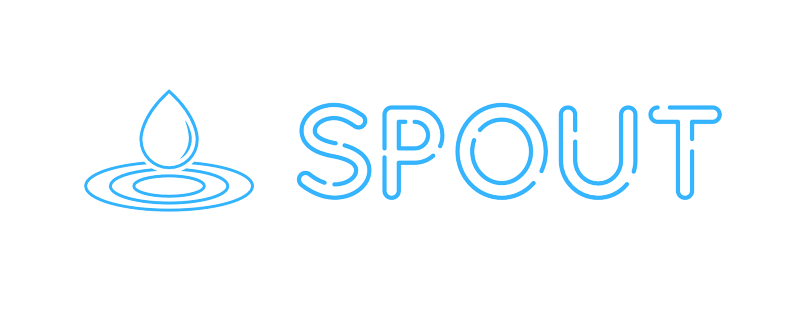
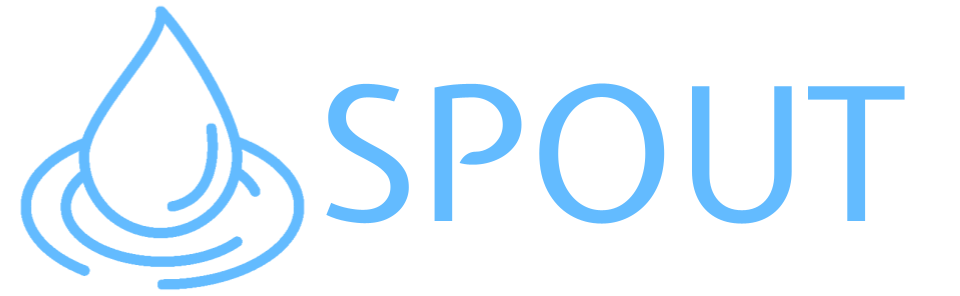
Create new card component in dashboard

Changed region(s): [[0.0, 0.0, 0.9592, 1.0]]

diff --git a/app/src/routes/Header.svelte b/app/src/routes/Header.svelte
@@ -1,47 +1,39 @@
 <script>
 	import { page } from '$app/stores';
-	import logo from '$lib/images/Spout.png';
+	import logo from '$lib/images/spout.png';
 </script>
 
-<header class="flex justify-between items-center px-12 h-24 sticky">
-	<div class="flex w-96">
+<header class="flex justify-between items-center h-24 sticky w-10/12">
+	<div class="flex w-60 justify-center items-center">
 		<a href="/">
-			<img src={logo} alt="SvelteKit" />
+			<img src={logo} alt="Spout" />
 		</a>
 	</div>
 
-	<nav class="flex items-center justify-between md:order-none text-xl flex-1 px-10 ">
-		<!-- <svg viewBox="0 0 2 3" aria-hidden="true">
-			<path d="M0,0 L1,2 C1.5,3 1.5,3 2,3 L2,0 Z" />
-		</svg> -->
+	<nav class="flex items-center justify-center md:order-none text-xl flex-1 ">
 		<ul>
 			<li aria-current={$page.url.pathname === '/' ? 'page' : undefined}>
 				<a href="/">My Home</a>
 			</li>
 			<li aria-current={$page.url.pathname === '/about' ? 'page' : undefined}>
-				<a href="/about">Connect</a>
+				<a href="/about">About</a>
 			</li>
 			<li aria-current={$page.url.pathname === '/sverdle' ? 'page' : undefined}>
 				<a href="/sverdle">Support</a>
 			</li>
 		</ul>
-		<!-- <svg viewBox="0 0 2 3" aria-hidden="true">
-			<path d="M0,0 L0,3 C0.5,3 0.5,3 1,2 L2,0 Z" />
-		</svg> -->
 	</nav>
-	<a href="/login" class="bg-blue-400 h-12 w-36 rounded-md text-white flex justify-center items-center">
-		Login
-	</a>
+	<div class="w-72 flex justify-end items-center ">
+		<a href="/login" class="bg-primary h-12 w-36 rounded-md flex justify-center items-center text-white">
+			Login
+		</a>
+	</div>
+
 </header>
 
 
 <style>
 
-	svg {
-		width: 2em;
-		height: 3em;
-		display: block;
-	}
 
 	ul {
 		position: relative;

diff --git a/app/src/routes/styles.css b/app/src/routes/styles.css
@@ -5,11 +5,11 @@
 		Cantarell, 'Open Sans', 'Helvetica Neue', sans-serif;
 	--font-mono: 'Fira Mono', monospace;
 	--color-bg-0: rgb(223, 229, 235);
-	--color-bg-1: hsl(209, 36%, 86%);
+	--color-bg-1: rgb(252, 252, 252);
 	--color-bg-2: hsl(224, 44%, 95%);
-	--color-theme-1: rgb(96 165 250);
+	--color-theme-1: #60a5fa;
 	--color-theme-2: #4075a6;
-	--color-text: rgba(0, 0, 0, 0.7);
+	--color-text: #343F3E;
 	--column-width: 42rem;
 	--column-margin-top: 4rem;
 	font-family: var(--font-body);
@@ -21,13 +21,6 @@ body {
 	margin: 0;
 	background-attachment: fixed;
 	background-color: var(--color-bg-1);
-	background-size: 100vw 100vh;
-	background-image: radial-gradient(
-			50% 50% at 50% 50%,
-			rgba(255, 255, 255, 0.75) 0%,
-			rgba(255, 255, 255, 0) 100%
-		),
-		linear-gradient(180deg, var(--color-bg-0) 0%, var(--color-bg-1) 15%, var(--color-bg-2) 50%);
 }
 
 h1,

diff --git a/app/src/routes/components/Dashboard.svelte b/app/src/routes/components/Dashboard.svelte
@@ -1,0 +1,36 @@
+<script>
+  import { onMount } from 'svelte';
+  import Card from './Card.svelte';
+  import Form from './form.svelte';
+  
+  let cards = [];
+
+  function addCard() {
+    let card = {
+      name: null,
+      seed: null,
+      period: null,
+      set: false
+    }
+    cards = [...cards, card]; // Add a new card to the array
+  }
+
+  // Execute some logic after the component is mounted
+  onMount(() => {
+    // You can perform any initial setup here
+  });
+</script>
+
+
+<div class="flex flex-col justify-center items-center flex-1 w-full rounded-lg mt-6">
+  {#each cards as card}
+    {#if card.set == false}
+      <Form />
+    {:else}
+      <Card />
+    {/if}
+  {/each}
+  <button class="border-2 border-primary rounded-full w-16 h-16 text-2xl text-primary" on:click={addCard}>
+    +
+  </button>
+</div>

diff --git a/app/src/routes/+page.svelte b/app/src/routes/+page.svelte
@@ -1,6 +1,5 @@
 <script>
-	import Counter from './Counter.svelte';
-
+	import Dashboard from './components/Dashboard.svelte';
 </script>
 
 <svelte:head>
@@ -8,14 +7,13 @@
 	<meta name="description" content="Svelte demo app" />
 </svelte:head>
 
-<section>
-	<div>
-		<h1>Dashboard</h1>
-		<button class="bg-green-600 h-12 w-36 rounded-md text-white flex justify-center items-center">Outdoor</button>
+<section class="flex-1 p-4">
+	<div class="self-start flex flex-col items-start gap-3">
+		<h1 class="text-3xl">Dashboard</h1>
 	</div>
-
-	<Counter />
+	<Dashboard />
 </section>
+  
 
 <style>
 	section {
@@ -23,9 +21,5 @@
 		flex-direction: column;
 		justify-content: center;
 		align-items: center;
-	}
-
-	h1 {
-		width: 100%;
 	}
 </style>

diff --git a/app/src/routes/components/form.svelte b/app/src/routes/components/form.svelte
@@ -1,0 +1,25 @@
+<script>
+    let name = '';
+    let seedType = '';
+    let period = '';
+  
+    function handleSubmit() {
+      console.log('Name:', name);
+      console.log('Seed Type:', seedType);
+      console.log('Period:', period);
+    }
+  </script>
+  
+  <form on:submit|preventDefault={handleSubmit}>
+    <label for="name">Name:</label>
+    <input type="text" id="name" bind:value={name} />
+  
+    <label for="seedType">Seed Type:</label>
+    <input type="text" id="seedType" bind:value={seedType} />
+  
+    <label for="period">Period:</label>
+    <input type="text" id="period" bind:value={period} />
+  
+    <button type="submit">Submit</button>
+  </form>
+  

diff --git a/app/src/routes/+layout.svelte b/app/src/routes/+layout.svelte
@@ -7,12 +7,11 @@
 <div class="app">
 	<Header />
 
-	<main>
+	<main class="w-10/12 rounded-lg bg-white shadow-md shadow-slate-300">
 		<slot />
 	</main>
 
 	<footer>
-		<p>visit <a href="https://kit.svelte.dev">kit.svelte.dev</a> to learn SvelteKit</p>
 	</footer>
 </div>
 
@@ -21,6 +20,7 @@
 		display: flex;
 		flex-direction: column;
 		min-height: 100vh;
+		align-items: center;
 	}
 
 	main {
@@ -28,11 +28,11 @@
 		display: flex;
 		flex-direction: column;
 		padding: 1rem;
-		width: 100%;
-		max-width: 64rem;
 		margin: 0 auto;
 		box-sizing: border-box;
+
 	}
+
 
 	footer {
 		display: flex;

diff --git a/app/src/routes/about/+page.svelte b/app/src/routes/about/+page.svelte
@@ -1,3 +1,12 @@
+<style>
+    h1, h2, h3, h4, h5, h6 {
+        margin-top: 30px; /* Adjust the value as needed */
+        font-style: italic;
+        text-align: center;
+        font-weight: bold;
+    }
+</style>
+
 <svelte:head>
     <title>About</title>
     <meta name="description" content="About Spouts Smart Irrigation System" />

diff --git a/app/tailwind.config.js b/app/tailwind.config.js
@@ -2,7 +2,12 @@
 export default {
   content: ['./src/**/*.{html,js,svelte,ts}'],
   theme: {
-    extend: {},
+    extend: {
+      colors: {
+        primary: "#60a5fa",
+      },
+    },
+
   },
   plugins: [],
 }

diff --git a/app/src/routes/components/Card.svelte b/app/src/routes/components/Card.svelte
@@ -1,0 +1,9 @@
+<script>
+  let status = false;
+  import Form from './form.svelte';
+</script>
+
+<main>
+  <h1>Svelte Form Example</h1>
+</main>
+
